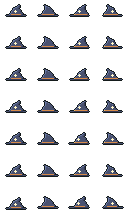
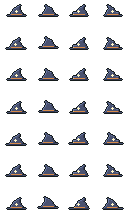
Mago estilo Tibia: base gerada (Master com túnica azul-violeta, faixa dourada e barba longa permanente), retrato com barba, preview_mago.png

diff --git a/packages/shared/src/data/outfits.ts b/packages/shared/src/data/outfits.ts
@@ -30,8 +30,10 @@ export interface AddonDef {
 export interface OutfitDef {
   id: string;
   name: string;
-  /** Sheet base (relativo a assets/), 64x112. */
+  /** Sheet base (relativo a assets/), 64x112. Pode ser gerada (tools/addons) a partir de uma sheet do pack. */
   sheet: string;
+  /** Retrato 38x38 (ausente = Faceset.png ao lado da sheet). */
+  faceset?: string;
   /** Addon 1 (bit 1) e addon 2 (bit 2). */
   addons: [AddonDef, AddonDef];
   /**
@@ -56,7 +58,9 @@ function outfit(id: string, name: string, sheetName: string, a1: AddonDef, a2: A
 export const OUTFIT_LIST: OutfitDef[] = [
   outfit("cidadao", "Cidadão", "Villager4", addon("cidadao_chapeu", "Chapéu com pena"), addon("cidadao_mochila", "Mochila de viagem", true)),
   outfit("cacador", "Caçador", "Hunter", addon("cacador_chapeu", "Chapéu de caçador"), addon("cacador_aljava", "Aljava", true)),
-  outfit("mago", "Mago", "SorcererBlack", addon("mago_chapeu", "Chapéu de mago"), addon("mago_cajado", "Cajado arcano")),
+  // Mago: sheet gerada (Master com túnica azul-violeta e barba longa permanente) — tools/addons/generate.mjs
+  { ...outfit("mago", "Mago", "Master", addon("mago_chapeu", "Chapéu de mago"), addon("mago_cajado", "Cajado arcano")),
+    sheet: `${A}base_mago.png`, faceset: `${A}base_mago_face.png` },
   outfit("cavaleiro", "Cavaleiro", "Knight", addon("cavaleiro_pluma", "Pluma do elmo"), addon("cavaleiro_escudo", "Escudo nas costas", true)),
   outfit("nobre", "Nobre", "Noble", addon("nobre_capa", "Capa de nobre", true), addon("nobre_pena", "Pena no chapéu")),
   outfit("invocador", "Invocador", "SorcererOrange", addon("invocador_diadema", "Diadema"), addon("invocador_orbe", "Orbe flutuante")),

diff --git a/packages/shared/src/data/outfits.test.ts b/packages/shared/src/data/outfits.test.ts
@@ -44,11 +44,20 @@ describe("OUTFITS", () => {
     }
   });
 
-  it("toda vocação tem roupa padrão existente (as de antes: Knight/Hunter/SorcererBlack/Shaman)", () => {
+  it("retratos existem (Faceset do pack ou gerado) com 38x38", () => {
+    for (const o of OUTFIT_LIST) {
+      const face = o.faceset ?? o.sheet.replace(/SpriteSheet\.png$/, "Faceset.png");
+      expect(existsSync(asset(face)), face).toBe(true);
+      const png = readSheet(asset(face));
+      expect([png.width, png.height], face).toEqual([38, 38]);
+    }
+  });
+
+  it("toda vocação tem roupa padrão existente (Mago = sheet gerada com barba longa)", () => {
     for (const v of VOCATIONS) expect(OUTFITS[DEFAULT_OUTFIT[v]], v).toBeDefined();
     expect(OUTFITS[DEFAULT_OUTFIT.knight].sheet).toContain("/Knight/");
     expect(OUTFITS[DEFAULT_OUTFIT.paladin].sheet).toContain("/Hunter/");
-    expect(OUTFITS[DEFAULT_OUTFIT.sorcerer].sheet).toContain("/SorcererBlack/");
+    expect(OUTFITS[DEFAULT_OUTFIT.sorcerer].sheet).toBe("addons/base_mago.png");
     expect(OUTFITS[DEFAULT_OUTFIT.druid].sheet).toContain("/Shaman/");
     expect(resolveOutfit(undefined, "druid").id).toBe(DEFAULT_OUTFIT.druid);
     expect(resolveOutfit("pirata", "druid").id).toBe("pirata");

diff --git a/packages/client/src/game/sprites.ts b/packages/client/src/game/sprites.ts
@@ -95,7 +95,7 @@ export function lookFor(vocation: string): CharacterLook {
 
 /** Retrato (Faceset 38x38 do pack) da roupa. */
 export function outfitFaceset(o: OutfitDef): string {
-  return o.sheet.replace(/SpriteSheet\.png$/, "Faceset.png");
+  return o.faceset ?? o.sheet.replace(/SpriteSheet\.png$/, "Faceset.png");
 }
 
 /** Nome da animação de caminhada de um sheet para um lado. */

diff --git a/packages/shared/src/data/outfitsExtraTop.ts b/packages/shared/src/data/outfitsExtraTop.ts
@@ -5,7 +5,7 @@ export const ADDON_EXTRA_TOP: Record<string, number> = {
   cacador_chapeu: 4,
   cacador_aljava: 0,
   mago_chapeu: 8,
-  mago_cajado: 1,
+  mago_cajado: 2,
   cavaleiro_pluma: 6,
   cavaleiro_escudo: 0,
   nobre_capa: 0,
